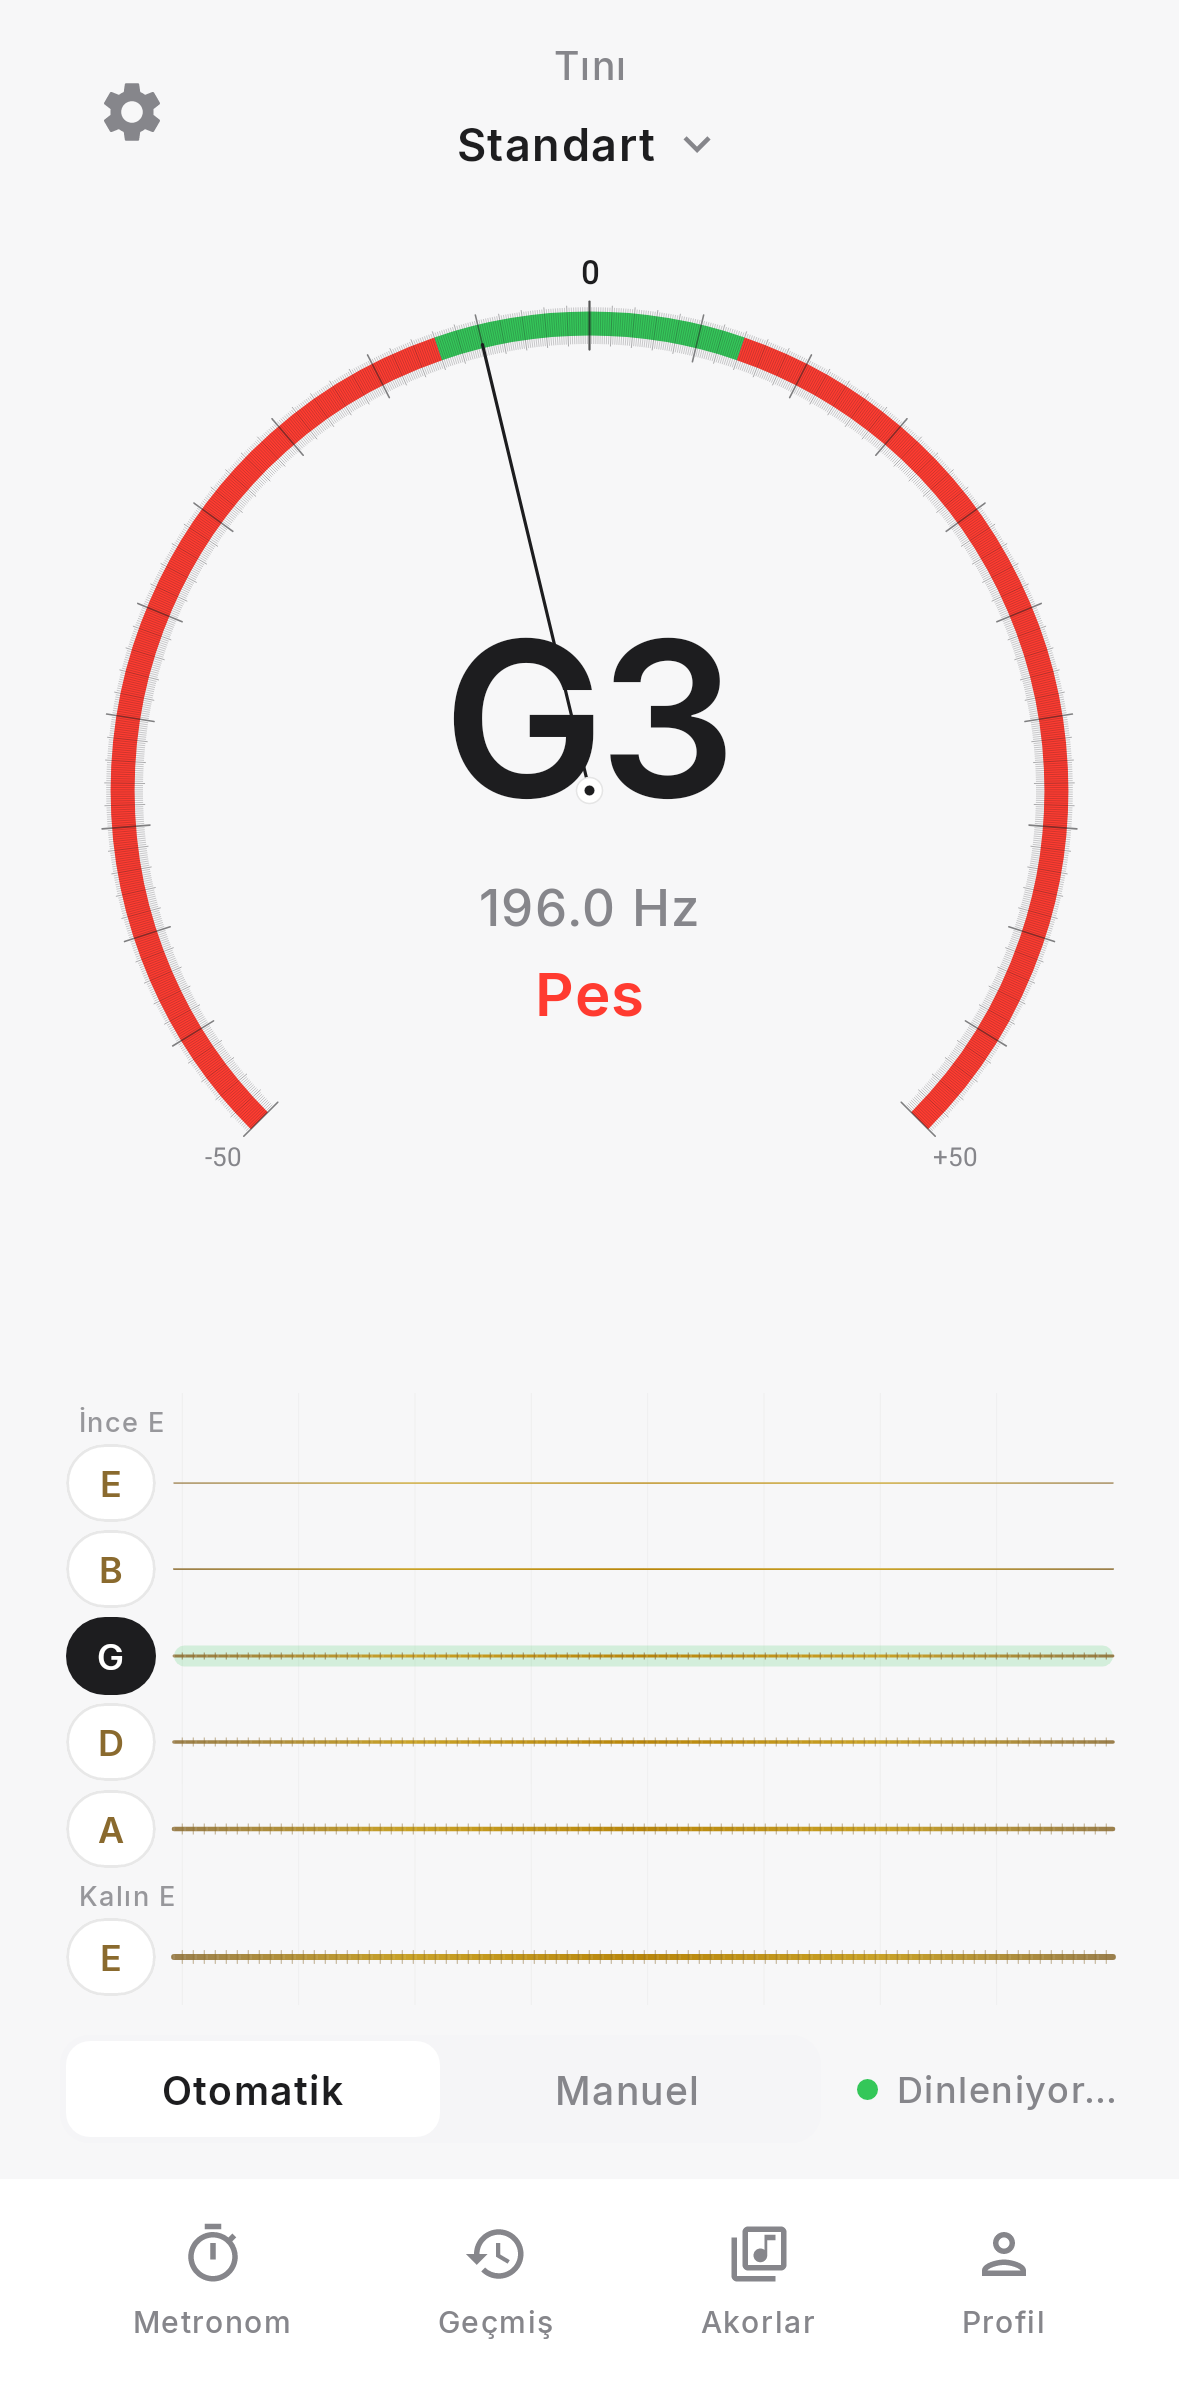
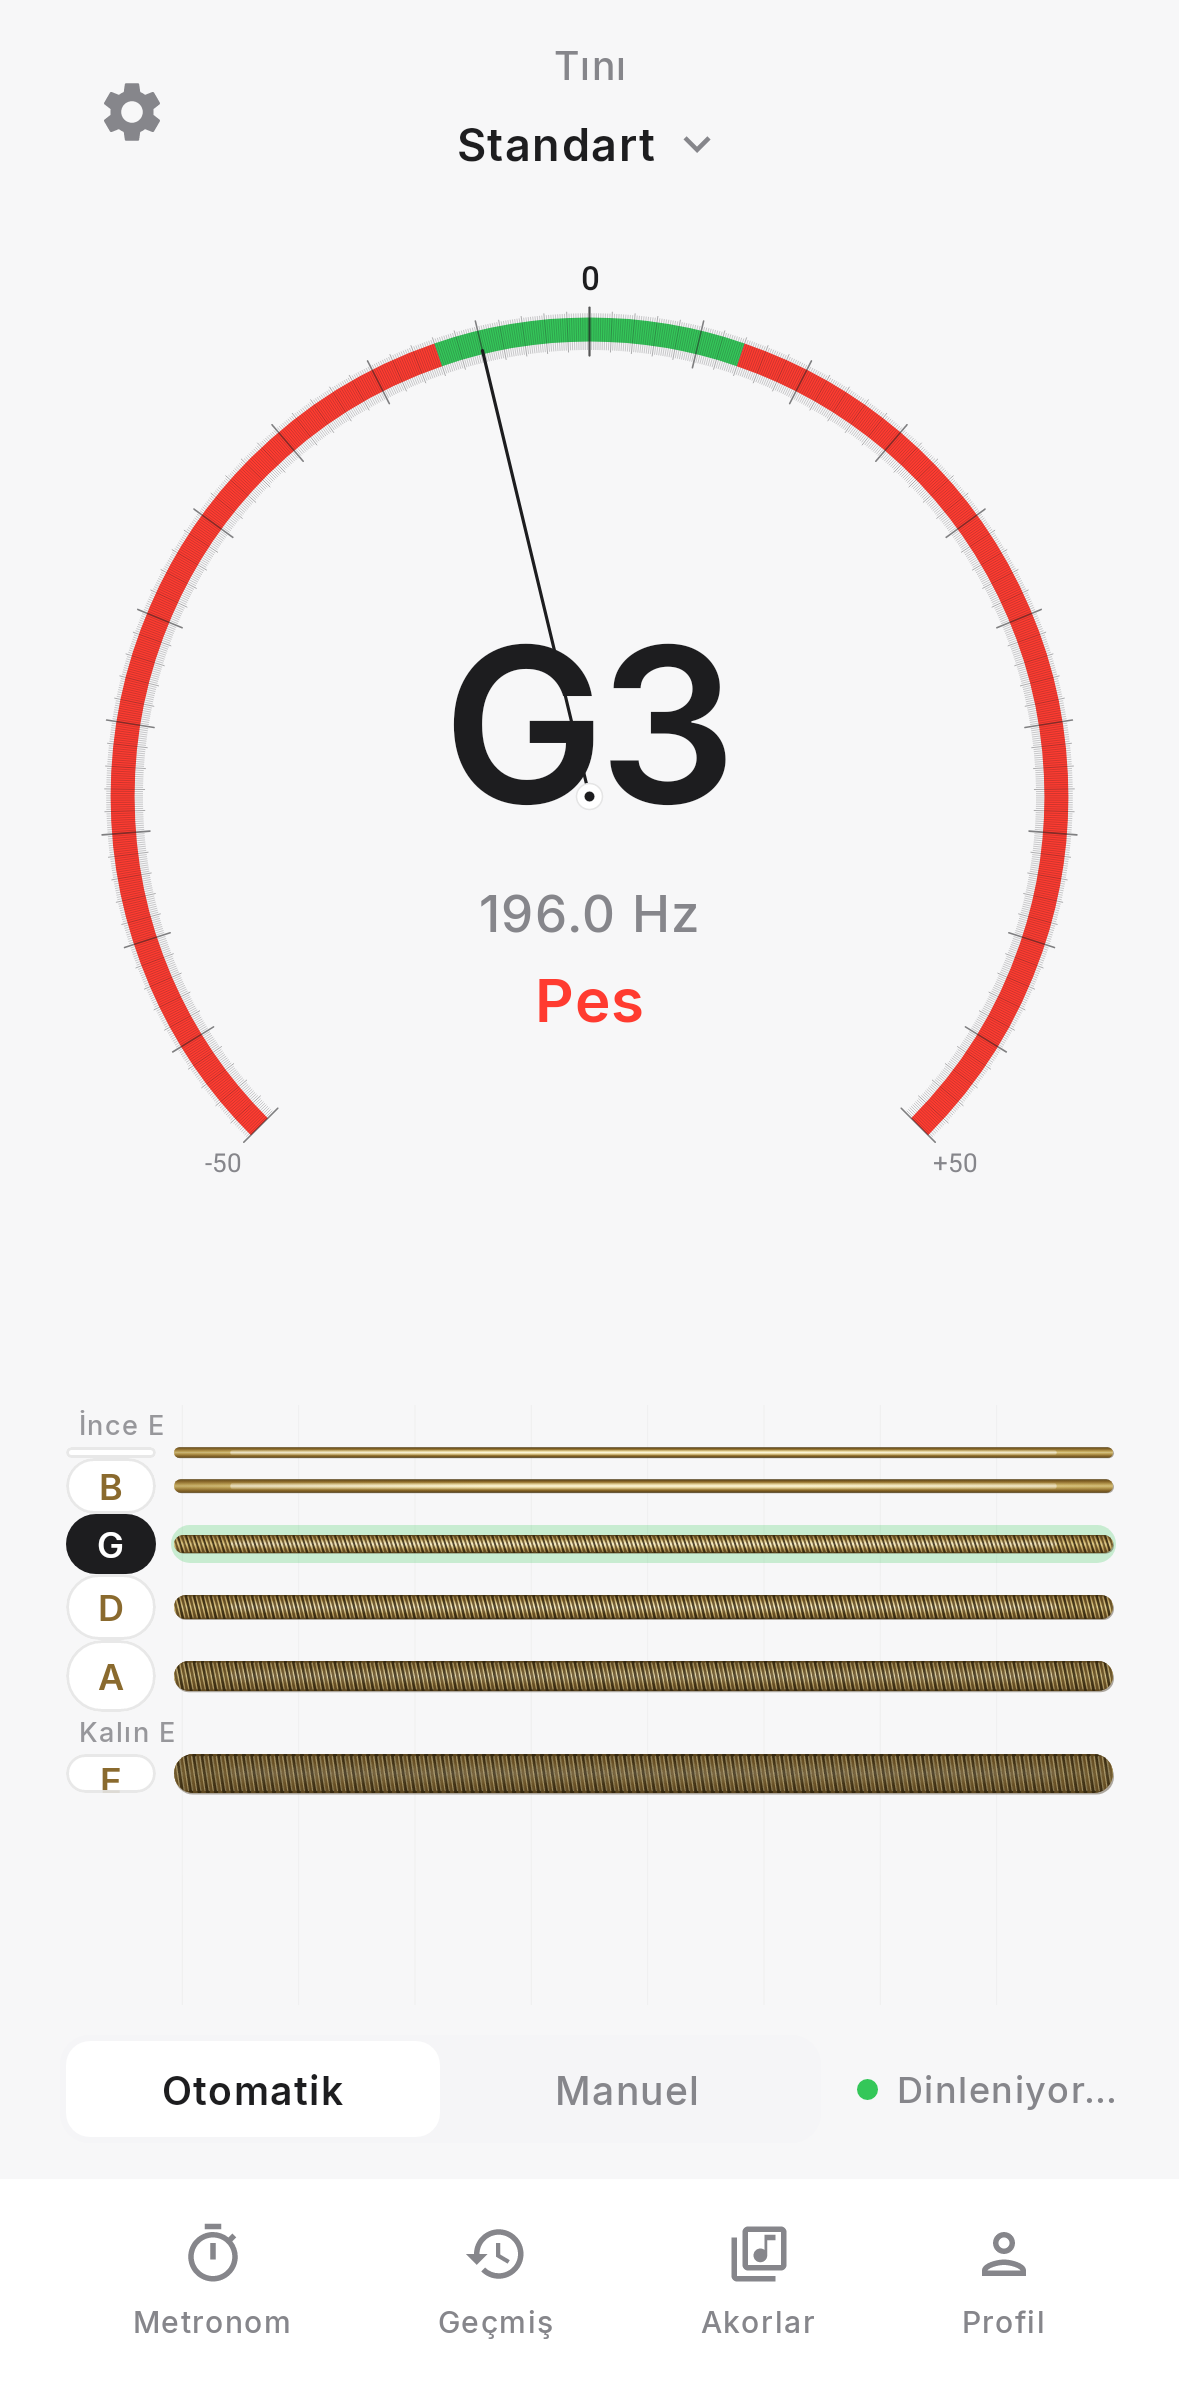
fix(ui): v3.4 photorealistic wound guitar string rods
Draw strings as dp-scaled cylindrical bronze gradients with clipped
dense helical coils on wound gauges; plain smooth top strings unchanged layout.

diff --git a/app/src/main/java/com/tini/tuner/TunerUiComponents.kt b/app/src/main/java/com/tini/tuner/TunerUiComponents.kt
@@ -34,10 +34,12 @@ import androidx.compose.ui.graphics.nativeCanvas
 import androidx.compose.ui.graphics.toArgb
 import androidx.compose.ui.text.font.FontWeight
 import androidx.compose.ui.text.style.TextAlign
+import androidx.compose.ui.graphics.Path
+import androidx.compose.ui.graphics.drawscope.clipPath
+import androidx.compose.ui.unit.Dp
 import androidx.compose.ui.unit.dp
 import androidx.compose.ui.unit.sp
 import kotlin.math.cos
-import kotlin.math.hypot
 import kotlin.math.sin
 
 enum class TiniNavTab { Metronome, History, Chords, Profiles }
@@ -267,6 +269,18 @@ fun SpectrumWashBackground(
     }
 }
 
+private val StringHighlight = Color(0xFFF2E4B0)
+private val StringShadow = Color(0xFF3D2E14)
+
+/** Diameter presets (dp) for rank 0 = thinnest (high string) … rank 5 = thickest (low E). */
+private fun stringDiameterDp(rankFromThin: Int, stringCount: Int): Dp {
+    val presets = listOf(3.5f, 4.5f, 6f, 8f, 10f, 13f)
+    if (stringCount <= 1) return presets.first().dp
+    val idx = (rankFromThin.toFloat() / (stringCount - 1) * (presets.lastIndex)).toInt()
+        .coerceIn(0, presets.lastIndex)
+    return presets[idx].dp
+}
+
 /**
  * Horizontal neck — top→bottom: İnce E (high) … Kalın E (low). Data index 0 = lowest.
  */
@@ -280,12 +294,16 @@ fun HorizontalNeckStringSelector(
 ) {
     val colors = AppColors
     val dataIndicesTopToBottom = strings.indices.reversed().toList()
-    val thicknessPxSteps = listOf(1.4f, 2.0f, 2.8f, 3.6f, 4.6f, 5.8f)
+    val rowHeights = dataIndicesTopToBottom.map { dataIndex ->
+        val rank = strings.size - 1 - dataIndex
+        stringDiameterDp(rank, strings.size) + 14.dp
+    }
+    val totalHeight = rowHeights.fold(0.dp) { acc, h -> acc + h }
 
     Column(
         modifier = modifier
             .fillMaxWidth()
-            .height((strings.size * 32 + 12).dp)
+            .height(totalHeight.coerceAtLeast(200.dp))
             .padding(horizontal = 2.dp)
     ) {
         Box(modifier = Modifier.fillMaxSize()) {
@@ -301,22 +319,20 @@ fun HorizontalNeckStringSelector(
                     )
                 }
             }
-            Column(
-                modifier = Modifier.fillMaxSize(),
-                verticalArrangement = Arrangement.SpaceEvenly
-            ) {
-                dataIndicesTopToBottom.forEach { dataIndex ->
+            Column(modifier = Modifier.fillMaxSize()) {
+                dataIndicesTopToBottom.forEachIndexed { rowIndex, dataIndex ->
                     val note = strings[dataIndex]
                     val selected = dataIndex == selectedIndex
                     val tuned = selected && isTuned
                     val caption = neckCaption(note, dataIndex, strings.size)
                     val rankFromThin = strings.size - 1 - dataIndex
-                    val strokePx = thicknessPxSteps.getOrElse(rankFromThin) { 2.5f }
+                    val diameterDp = stringDiameterDp(rankFromThin, strings.size)
                     val wound = rankFromThin >= 2
 
                     Column(
                         modifier = Modifier
                             .fillMaxWidth()
+                            .height(rowHeights[rowIndex])
                             .clickable { onStringSelected(dataIndex) }
                     ) {
                         if (caption != null) {
@@ -334,7 +350,7 @@ fun HorizontalNeckStringSelector(
                         Row(
                             modifier = Modifier
                                 .fillMaxWidth()
-                                .height(26.dp),
+                                .weight(1f),
                             verticalAlignment = Alignment.CenterVertically
                         ) {
                             StringNoteBadge(
@@ -348,13 +364,11 @@ fun HorizontalNeckStringSelector(
                                     .weight(1f)
                                     .fillMaxHeight()
                             ) {
-                                val y = size.height / 2f
-                                val startX = 0f
-                                val endX = size.width
-                                drawMetallicGuitarString(
-                                    start = Offset(startX, y),
-                                    end = Offset(endX, y),
-                                    strokeWidth = strokePx,
+                                drawGuitarStringRod(
+                                    left = 0f,
+                                    right = size.width,
+                                    centerY = size.height / 2f,
+                                    diameterPx = diameterDp.toPx(),
                                     wound = wound,
                                     selected = selected,
                                     tuned = tuned,
@@ -424,90 +438,127 @@ private fun neckCaption(note: String, dataIndex: Int, total: Int): String? {
     }
 }
 
-private fun DrawScope.drawMetallicGuitarString(
-    start: Offset,
-    end: Offset,
-    strokeWidth: Float,
+private fun DrawScope.drawGuitarStringRod(
+    left: Float,
+    right: Float,
+    centerY: Float,
+    diameterPx: Float,
     wound: Boolean,
     selected: Boolean,
     tuned: Boolean,
     green: Color
 ) {
-    val length = hypot(end.x - start.x, end.y - start.y)
+    val h = diameterPx.coerceAtLeast(4f)
+    val top = centerY - h / 2f
+    val width = (right - left).coerceAtLeast(1f)
+    val corner = CornerRadius(h / 2f, h / 2f)
+    val rodLeft = left
+    val rodTop = top
+    val rodSize = Size(width, h)
+
     if (selected) {
-        val glowH = strokeWidth + 18f
+        val glowPad = h * 0.55f
         drawRoundRect(
-            color = green.copy(alpha = if (tuned) 0.28f else 0.18f),
-            topLeft = Offset(start.x, start.y - glowH / 2),
-            size = Size(length, glowH),
-            cornerRadius = CornerRadius(glowH / 2)
+            color = green.copy(alpha = if (tuned) 0.38f else 0.24f),
+            topLeft = Offset(rodLeft - 3f, rodTop - glowPad),
+            size = Size(width + 6f, h + glowPad * 2f),
+            cornerRadius = CornerRadius((h + glowPad * 2f) / 2f)
         )
     }
 
-    val bronzeBrush = Brush.horizontalGradient(
-        colors = listOf(
-            StringBronzeDark.copy(alpha = 0.85f),
-            StringBronze,
-            StringBronzeMid,
-            StringBronze,
-            StringBronzeDark.copy(alpha = 0.85f)
-        ),
-        startX = start.x,
-        endX = end.x
+    drawRoundRect(
+        color = StringShadow.copy(alpha = 0.4f),
+        topLeft = Offset(rodLeft + 1f, rodTop + h * 0.12f),
+        size = Size(width, h * 0.92f),
+        cornerRadius = corner
     )
 
-    drawLine(
-        brush = bronzeBrush,
-        start = start,
-        end = end,
-        strokeWidth = strokeWidth,
-        cap = StrokeCap.Round
+    drawRoundRect(
+        brush = Brush.verticalGradient(
+            colorStops = arrayOf(
+                0f to Color(0xFF4A3815),
+                0.18f to Color(0xFF8B6928),
+                0.42f to Color(0xFFE6CF7A),
+                0.5f to Color(0xFFF5E8A8),
+                0.58f to Color(0xFFE6CF7A),
+                0.82f to Color(0xFF8B6928),
+                1f to Color(0xFF4A3815)
+            ),
+            startY = rodTop,
+            endY = rodTop + h
+        ),
+        topLeft = Offset(rodLeft, rodTop),
+        size = rodSize,
+        cornerRadius = corner
+    )
+
+    drawRoundRect(
+        brush = Brush.horizontalGradient(
+            colors = listOf(
+                StringBronzeDark.copy(alpha = 0.45f),
+                Color.Transparent,
+                Color.Transparent,
+                StringBronzeDark.copy(alpha = 0.35f)
+            ),
+            startX = rodLeft,
+            endX = rodLeft + width
+        ),
+        topLeft = Offset(rodLeft, rodTop),
+        size = rodSize,
+        cornerRadius = corner
+    )
+
+    drawRoundRect(
+        brush = Brush.verticalGradient(
+            colors = listOf(
+                Color.White.copy(alpha = 0f),
+                Color.White.copy(alpha = 0.55f),
+                Color.White.copy(alpha = 0f)
+            ),
+            startY = rodTop + h * 0.22f,
+            endY = rodTop + h * 0.78f
+        ),
+        topLeft = Offset(rodLeft + width * 0.06f, rodTop + h * 0.25f),
+        size = Size(width * 0.88f, h * 0.5f),
+        cornerRadius = CornerRadius(h * 0.25f)
     )
 
     if (wound) {
-        val coilSpacing = 5.5f
-        val steps = (length / coilSpacing).toInt().coerceAtLeast(1)
-        val dx = (end.x - start.x) / length
-        val dy = (end.y - start.y) / length
-        val px = -dy
-        val py = dx
-        for (i in 0 until steps) {
-            if (i % 2 == 0) continue
-            val t = (i + 0.5f) * coilSpacing
-            if (t > length) break
-            val cx = start.x + dx * t
-            val cy = start.y + dy * t
-            val markLen = strokeWidth * 1.1f
-            drawLine(
-                color = StringBronzeDark.copy(alpha = if (selected) 0.75f else 0.55f),
-                start = Offset(cx - px * markLen, cy - py * markLen),
-                end = Offset(cx + px * markLen, cy + py * markLen),
-                strokeWidth = 1.1f,
-                cap = StrokeCap.Round
+        val clip = Path().apply {
+            addRoundRect(
+                androidx.compose.ui.geometry.RoundRect(
+                    left = rodLeft,
+                    top = rodTop,
+                    right = rodLeft + width,
+                    bottom = rodTop + h,
+                    cornerRadius = corner
+                )
             )
         }
-        for (i in 0 until steps) {
-            if (i % 2 != 0) continue
-            val t = i * coilSpacing
-            if (t > length) break
-            val cx = start.x + dx * t
-            val cy = start.y + dy * t
-            drawLine(
-                color = Color.White.copy(alpha = if (selected) 0.35f else 0.22f),
-                start = Offset(cx, cy - strokeWidth * 0.35f),
-                end = Offset(cx, cy + strokeWidth * 0.35f),
-                strokeWidth = 0.8f,
-                cap = StrokeCap.Round
-            )
+        clipPath(clip) {
+            val pitch = (h * 0.28f).coerceIn(2.2f, 4.5f)
+            var x = rodLeft - pitch
+            var ridge = 0
+            while (x < rodLeft + width + pitch) {
+                val shade = if (ridge % 2 == 0) Color(0xFF2E220C) else Color(0xFF5C4520)
+                drawLine(
+                    color = shade.copy(alpha = 0.82f),
+                    start = Offset(x, rodTop + h * 0.04f),
+                    end = Offset(x + pitch * 1.15f, rodTop + h * 0.96f),
+                    strokeWidth = (h * 0.11f).coerceAtLeast(1.4f),
+                    cap = StrokeCap.Round
+                )
+                drawLine(
+                    color = StringHighlight.copy(alpha = 0.42f),
+                    start = Offset(x + pitch * 0.42f, rodTop + h * 0.08f),
+                    end = Offset(x + pitch * 1.55f, rodTop + h * 0.92f),
+                    strokeWidth = (h * 0.06f).coerceAtLeast(0.9f),
+                    cap = StrokeCap.Round
+                )
+                x += pitch * 0.92f
+                ridge++
+            }
         }
-    } else {
-        drawLine(
-            color = Color.White.copy(alpha = 0.25f),
-            start = Offset(start.x, start.y - strokeWidth * 0.25f),
-            end = Offset(end.x, end.y - strokeWidth * 0.25f),
-            strokeWidth = 1f,
-            cap = StrokeCap.Round
-        )
     }
 }
 

diff --git a/README.md b/README.md
@@ -259,7 +259,10 @@ Tini_app/
 - [x] Ses/akort profili kaydetme ve paylaşma (JSON)
 - [x] Bas gitar ve ukulele desteği
 
-### v3.3 ✅ (Mevcut Sürüm)
+### v3.4 ✅ (Mevcut Sürüm)
+- [x] Tel çizimi: dp kalınlığında 3D bronz silindirler, G–Kalın E sargı bobini
+
+### v3.3 ✅
 - [x] Mockup uyumu: yoğun kadran tick’leri, doygun kırmızı/yeşil track, koyu iğne
 - [x] Bronz/gold yatay teller, kalın tellerde sargı (helical) çizimi, rozetler
 
@@ -324,7 +327,7 @@ Bu proje MIT lisansı altında lisanslanmıştır. Detaylar için [LICENSE](LICE
 ---
 
 **Geliştirici:** [Ekrem Tezcan Sarıdağ](https://github.com/EkremTezcanSaridag)  
-**Versiyon:** 3.3  
+**Versiyon:** 3.4  
 **Son Güncelleme:** 5 Kasım 2026
 
 </div>
